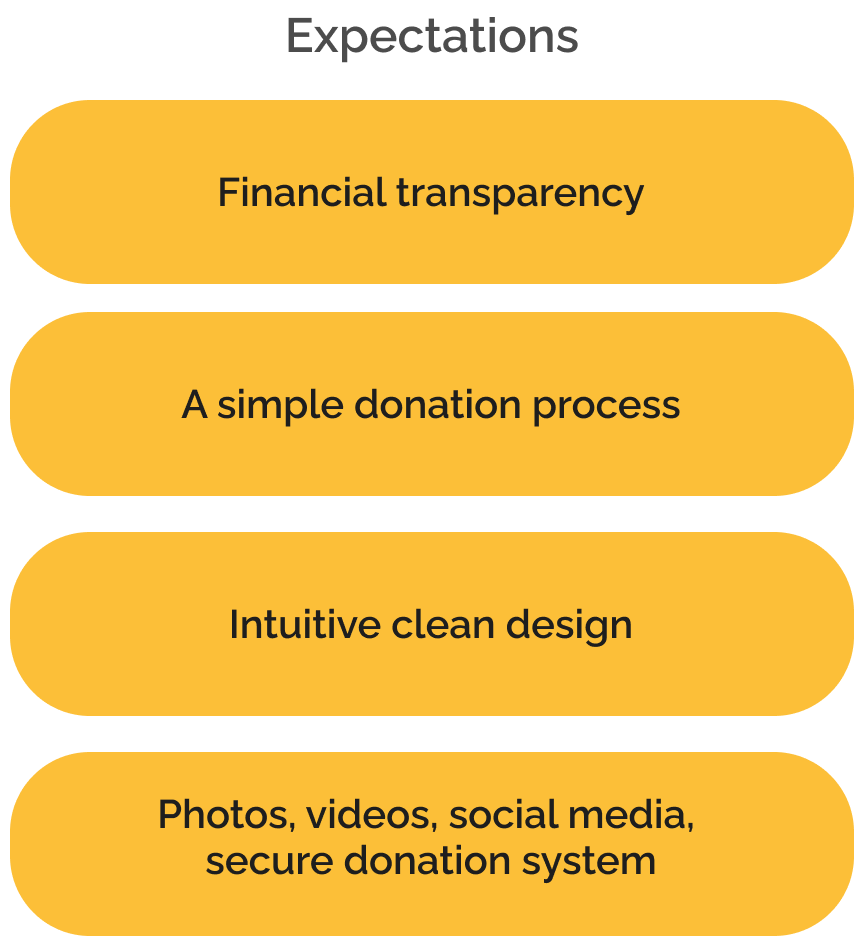
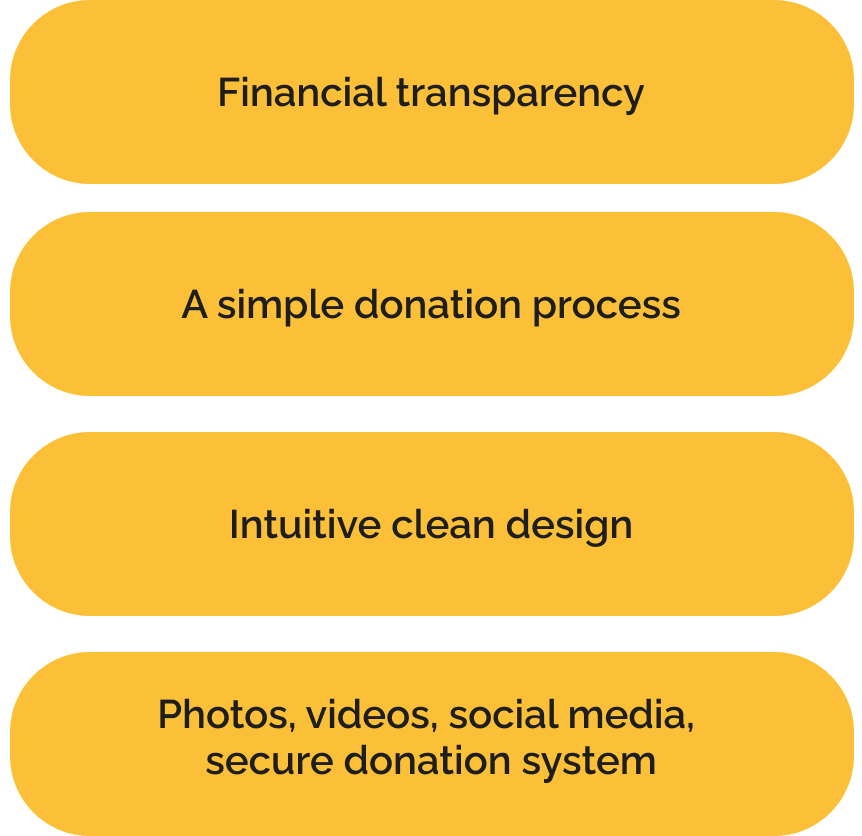
Frustration Vs Expectations
completed

diff --git a/index.html b/index.html
@@ -237,6 +237,22 @@
                 </div>
             </div>
         </section>
+        <section class="FandE">
+            <div class="content FvE">
+                <p class="R13">Frustrations vs. Expectations</p>
+                <p class="FEsub">Concluded the research with a better understanding of our target users’ expectations and frustrations for the not for profit organization’s website.</p>
+            </div>
+            <div class="FnEInfo">
+            <div class="FnE">
+                <p class="R6">Frustrations</p>
+                <img class="FrustImg" src="images/frustrations.png">
+            </div>
+            <div class="FnE">
+                <p class="R6">Expectations</p>
+                <img class="FrustImg" src="images/expectations.png">
+            </div>
+            </div>
+        </section>
 
 
         <footer>

diff --git a/css/style.css b/css/style.css
@@ -502,7 +502,31 @@ section{
     max-width: 232px;
     width: auto;
 }
-
+.FvE{
+    max-width: 468px;
+}
+.FEsub{
+    max-width: 433px;
+}
+.FnEInfo{
+    display: flex;
+    flex-direction: row;
+    justify-content: center;
+    align-items: center;
+    margin-top: 10px;
+    margin-bottom: 10px;
+}
+.FnE{
+    display: flex;
+    flex-direction: column;
+    max-width: 417px;
+    align-items: center;
+    margin-left: 10px;
+    margin-right: 10px;
+}
+.FrustImg{
+    max-width: 417px;
+}
 
 
 footer{
